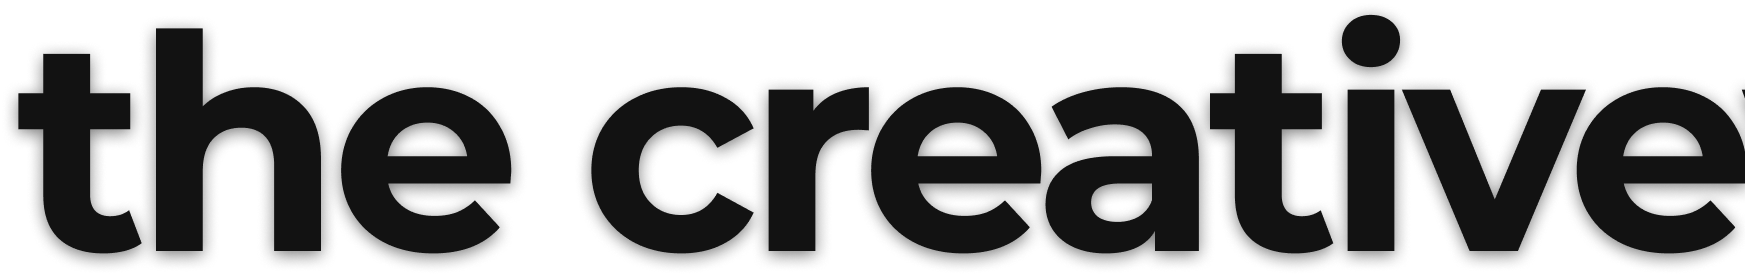
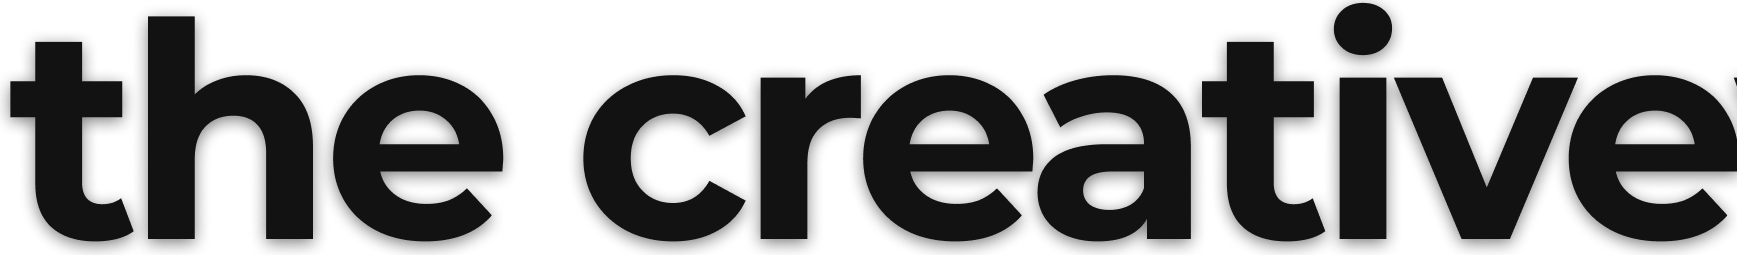
izmene 29. maj

diff --git a/css/style.css b/css/style.css
@@ -125,6 +125,7 @@ h2.scnd-section-text {
 .fourth-bg-text h2 {
     font-weight: bold;
     font-size: 2.13vw;
+    line-height: 4vw;
     position: relative;
     top: 48%;
     color: #555454;
